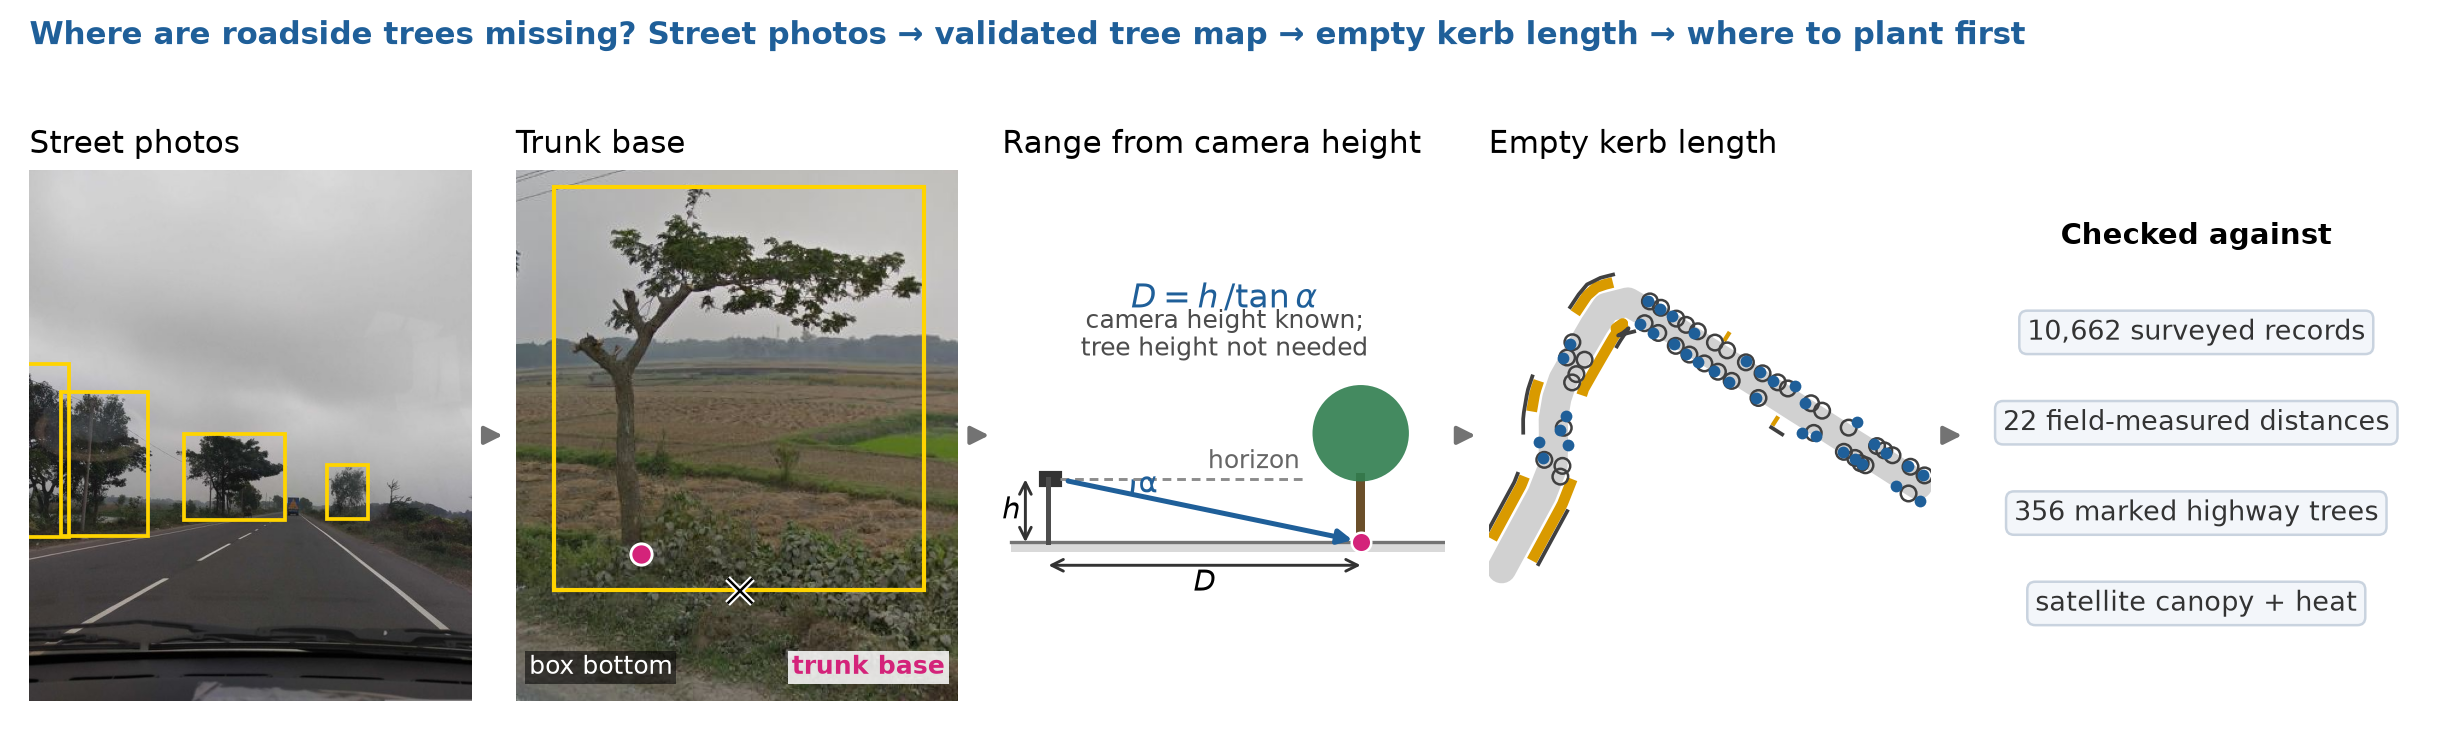
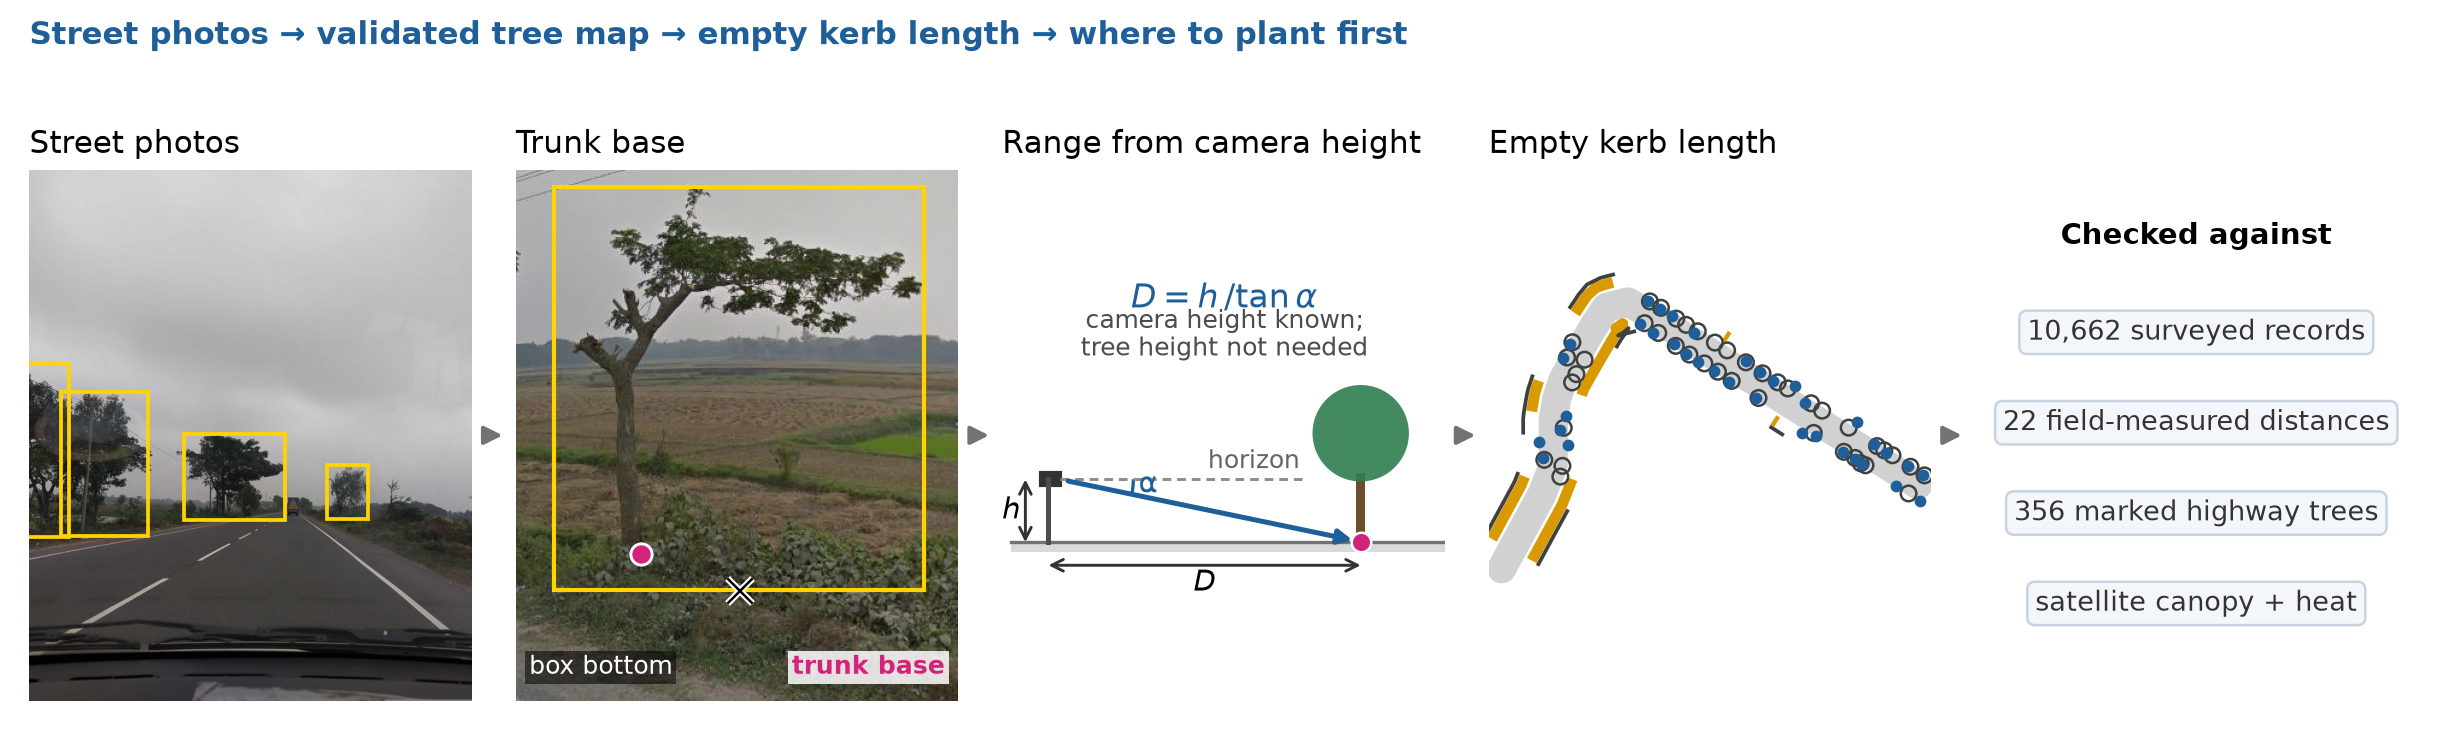
Declarative paper title; graphical abstract headline

Changed region(s): [[0.0, 0.0312, 0.8355, 0.0623]]

diff --git a/figures/make_fig_overview.py b/figures/make_fig_overview.py
@@ -267,7 +267,7 @@ for a, t in zip(axs[:4], ['Street photos', 'Trunk base', 'Range from camera heig
     a.set_title(t, fontsize=7.5, loc='left', pad=4)
 for k in range(4):
     b0, b1 = axs[k].get_position(), axs[k + 1].get_position(); arrow(ga, b0.x1 + 0.002, b1.x0 - 0.002, b0.y0 + b0.height / 2)
-ga.text(0.012, 0.94, 'Where are roadside trees missing? Street photos → validated tree map → empty kerb length → where to plant first',
+ga.text(0.012, 0.94, 'Street photos → validated tree map → empty kerb length → where to plant first',
         fontsize=7.5, fontweight='bold', color=C_OURS)
 ga.savefig('graphical_abstract.png', dpi=300); plt.close(ga)
 print('ok', len(Tir), len(Tpr), {k: (len(v['pred']), len(v['inv'])) for k, v in gaps.items()})

diff --git a/README.md b/README.md
@@ -2,7 +2,7 @@
 
 Code, labels, protocol files and results for the paper
 
-> **Where are roadside trees missing? Validated tree and planting-gap maps from street-level images, with an application to the Dhaka–Chattogram highway.**
+> **Validated roadside tree and planting-gap maps from street-level images: trunk-base geolocation and an application to the Dhaka–Chattogram highway.**
 > S.M. Tasfik Us Salehin, Fatema Mehnaz, Anima Zaman, Kanak Barua, Md Shahriar Mahbub.
 > Department of Computer Science and Engineering, Ahsanullah University of Science and Technology, Dhaka.
 
